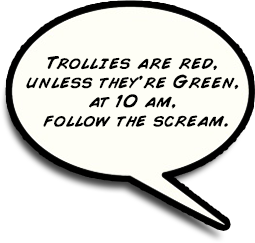
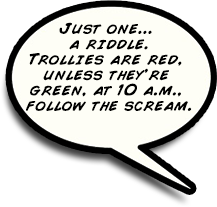
Updated to speech bubbles

Changed region(s): [[0.0, 0.0, 1.0, 0.9565]]

diff --git a/public/js/Page4.js b/public/js/Page4.js
@@ -76,12 +76,12 @@ function Page4()
 		surface.drawImage(mImgBubble2, 314, 12 - (30*Interpolation.easeOutQuad(surface.globalAlpha))+30);
 		surface.globalAlpha = Interpolation.Normalize(this.Interpolator, 0.8, 0.9);
 		surface.drawImage(mImgBubble3, 542, 348 - (30*Interpolation.easeOutQuad(surface.globalAlpha))+30);
-		surface.globalAlpha = Interpolation.Normalize(this.Interpolator, 1.1, 1.2);
-		surface.drawImage(mImgBubble4, 812, -20 - (30*Interpolation.easeOutQuad(surface.globalAlpha))+30);
+		//surface.globalAlpha = Interpolation.Normalize(this.Interpolator, 1.1, 1.2);
+		//surface.drawImage(mImgBubble4, 812, -20 - (30*Interpolation.easeOutQuad(surface.globalAlpha))+30);
 		surface.globalAlpha = Interpolation.Normalize(this.Interpolator, 1.4, 1.5);
-		surface.drawImage(mImgBubble5, 950, 108 - (30*Interpolation.easeOutQuad(surface.globalAlpha))+30);
+		surface.drawImage(mImgBubble5, 990, 80 - (30*Interpolation.easeOutQuad(surface.globalAlpha))+30);
 		surface.globalAlpha = Interpolation.Normalize(this.Interpolator, 1.25, 1.35);
-		surface.drawImage(mImgBubble6, 1210, 230 - (30*Interpolation.easeOutQuad(surface.globalAlpha))+30);
+		surface.drawImage(mImgBubble6, 900, 230 - (30*Interpolation.easeOutQuad(surface.globalAlpha))+30);
 		surface.globalAlpha = Interpolation.Normalize(this.Interpolator, 1.5, 1.6);
 		surface.drawImage(mImgBubble7, 1490, 508 - (30*Interpolation.easeOutQuad(surface.globalAlpha))+30);
 		surface.globalAlpha = Interpolation.Normalize(this.Interpolator, 1.9, 2.0);

diff --git a/public/js/Page3.js b/public/js/Page3.js
@@ -94,7 +94,7 @@ function Page3()
 		surface.globalAlpha = Interpolation.Normalize(this.Interpolator, 0.9, 1.0);
 		surface.drawImage(mImgBubble4, 536, 130 - (30*Interpolation.easeOutQuad(surface.globalAlpha))+30);
 		surface.globalAlpha = Interpolation.Normalize(this.Interpolator, 1.0, 1.1);
-		surface.drawImage(mImgBubble5, 792, -50 - (30*Interpolation.easeOutQuad(surface.globalAlpha))+30);
+		surface.drawImage(mImgBubble5, 850, -20 - (30*Interpolation.easeOutQuad(surface.globalAlpha))+30);
 		surface.globalAlpha = Interpolation.Normalize(this.Interpolator, 1.2, 1.3);
 		surface.drawImage(mImgBubble6, 774, 334 - (30*Interpolation.easeOutQuad(surface.globalAlpha))+30);
 		surface.globalAlpha = Interpolation.Normalize(this.Interpolator, 1.35, 1.4);
